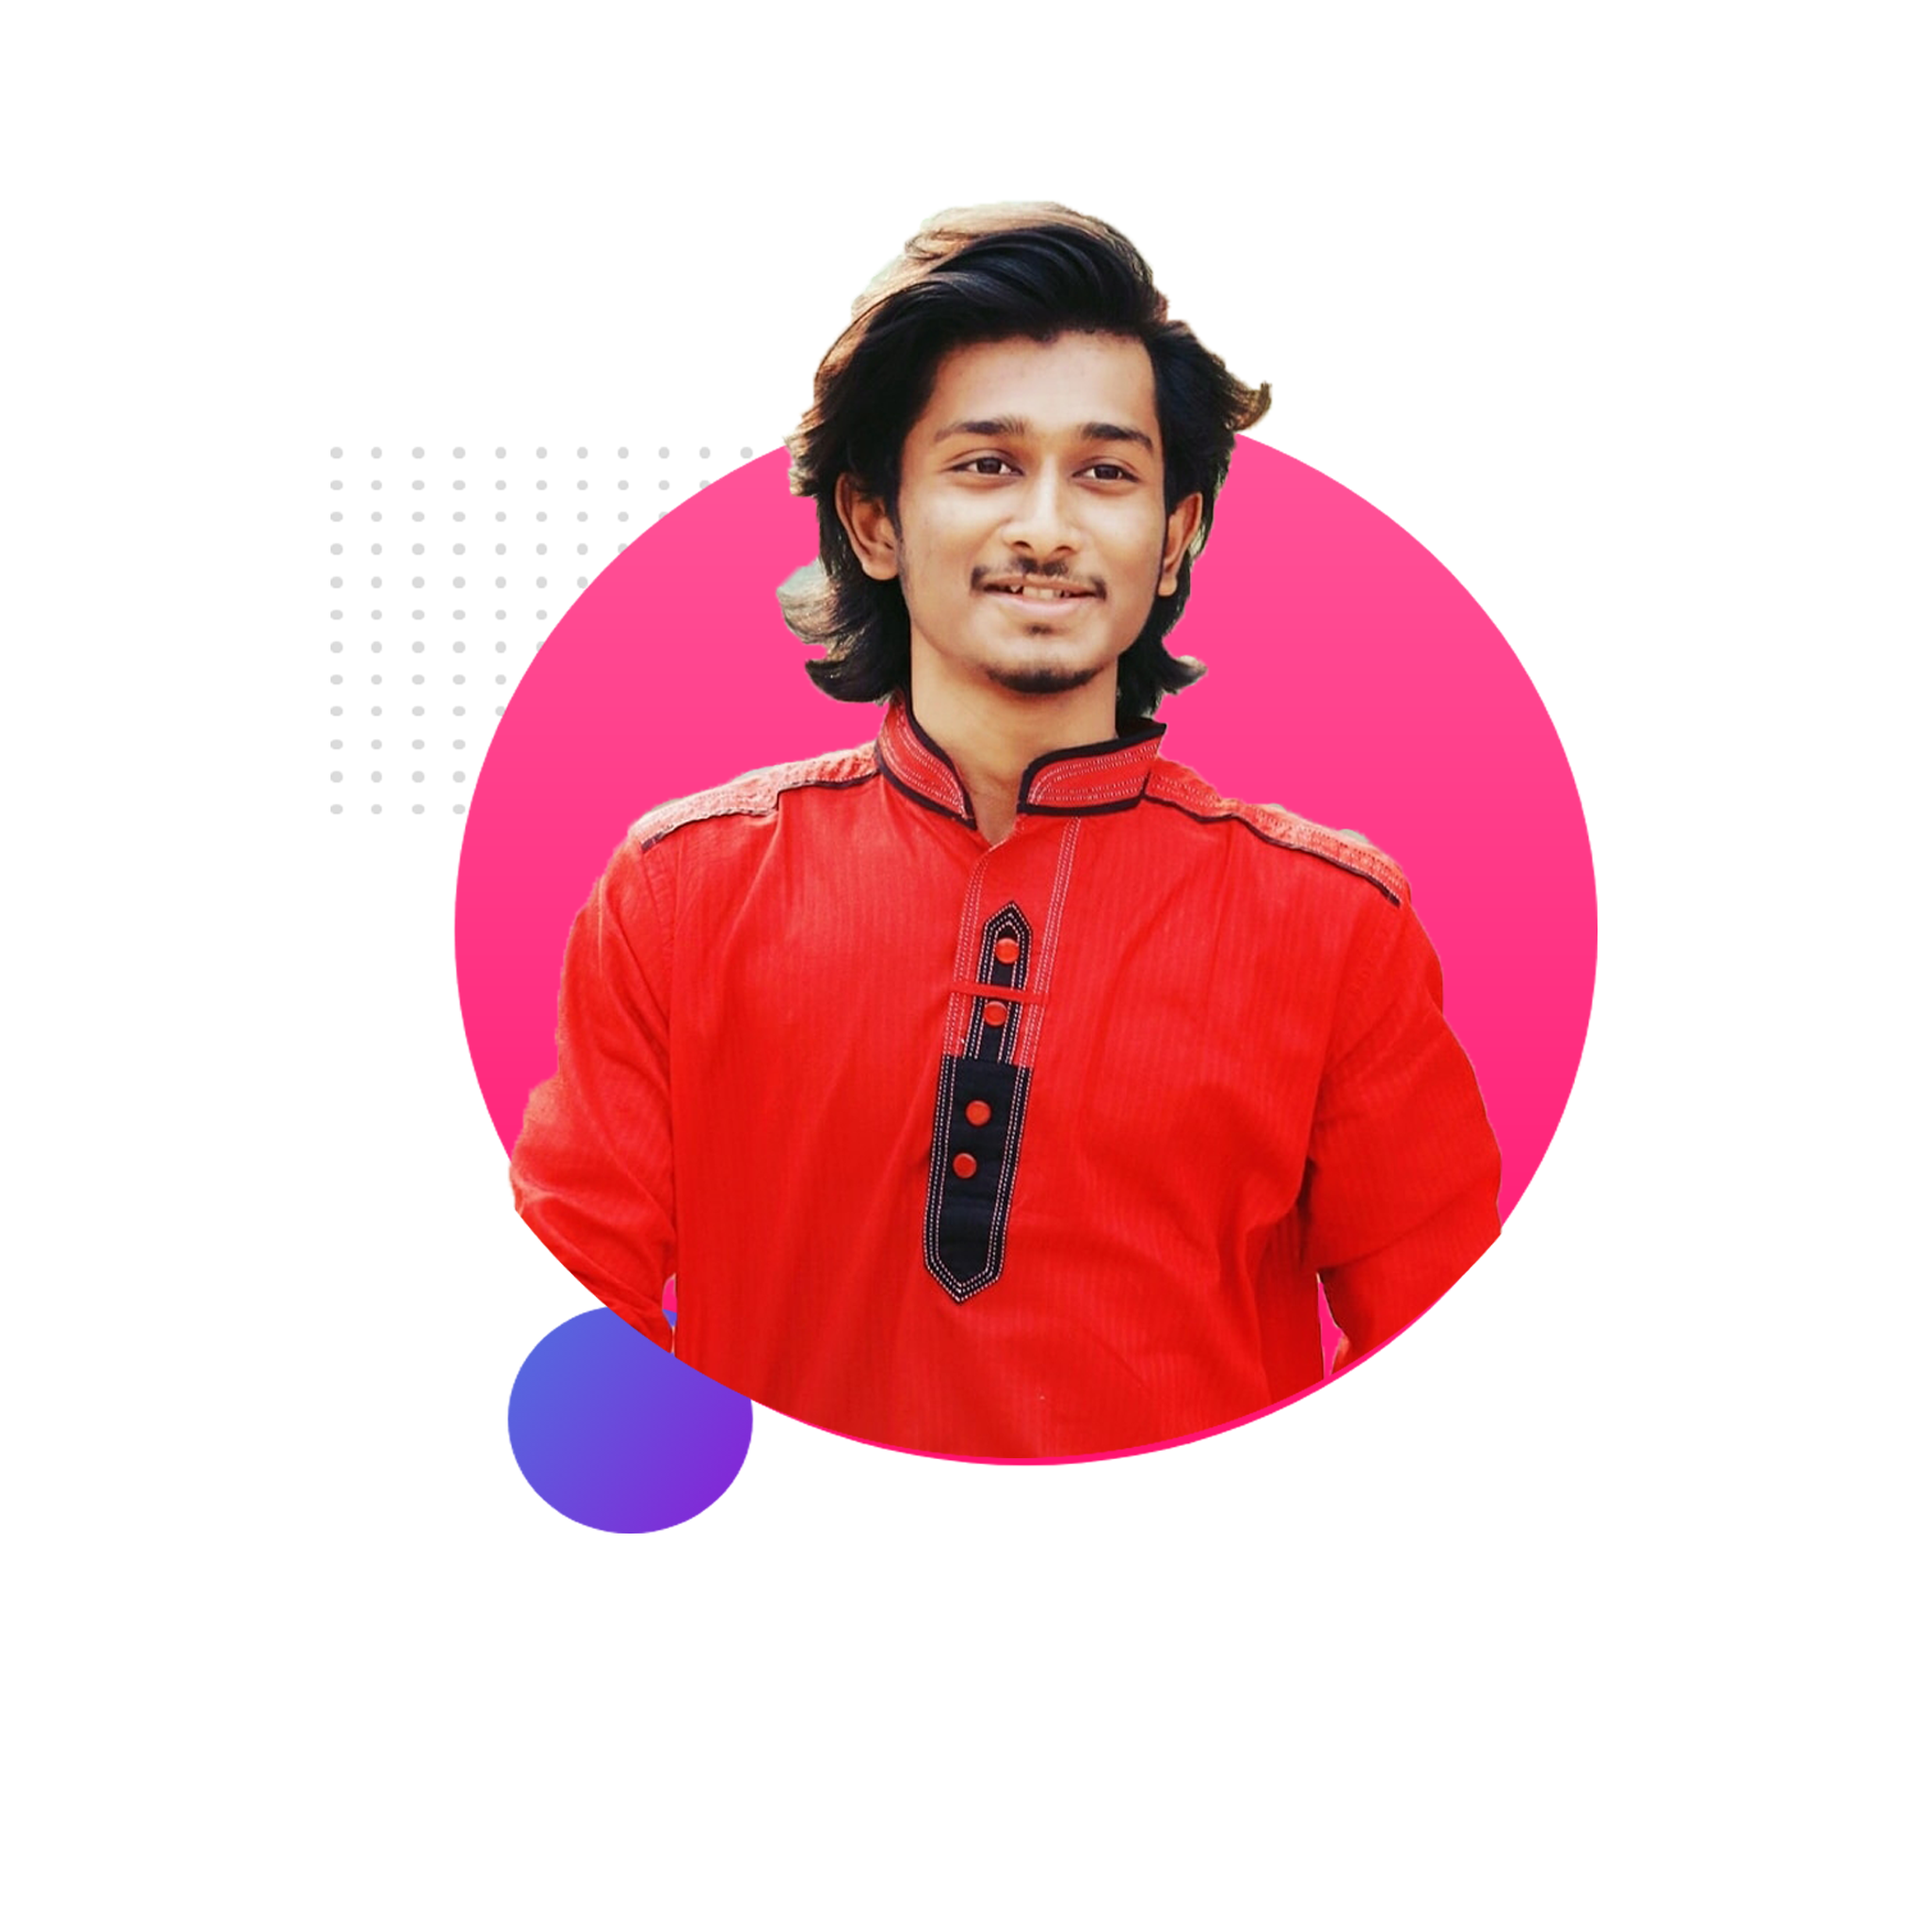
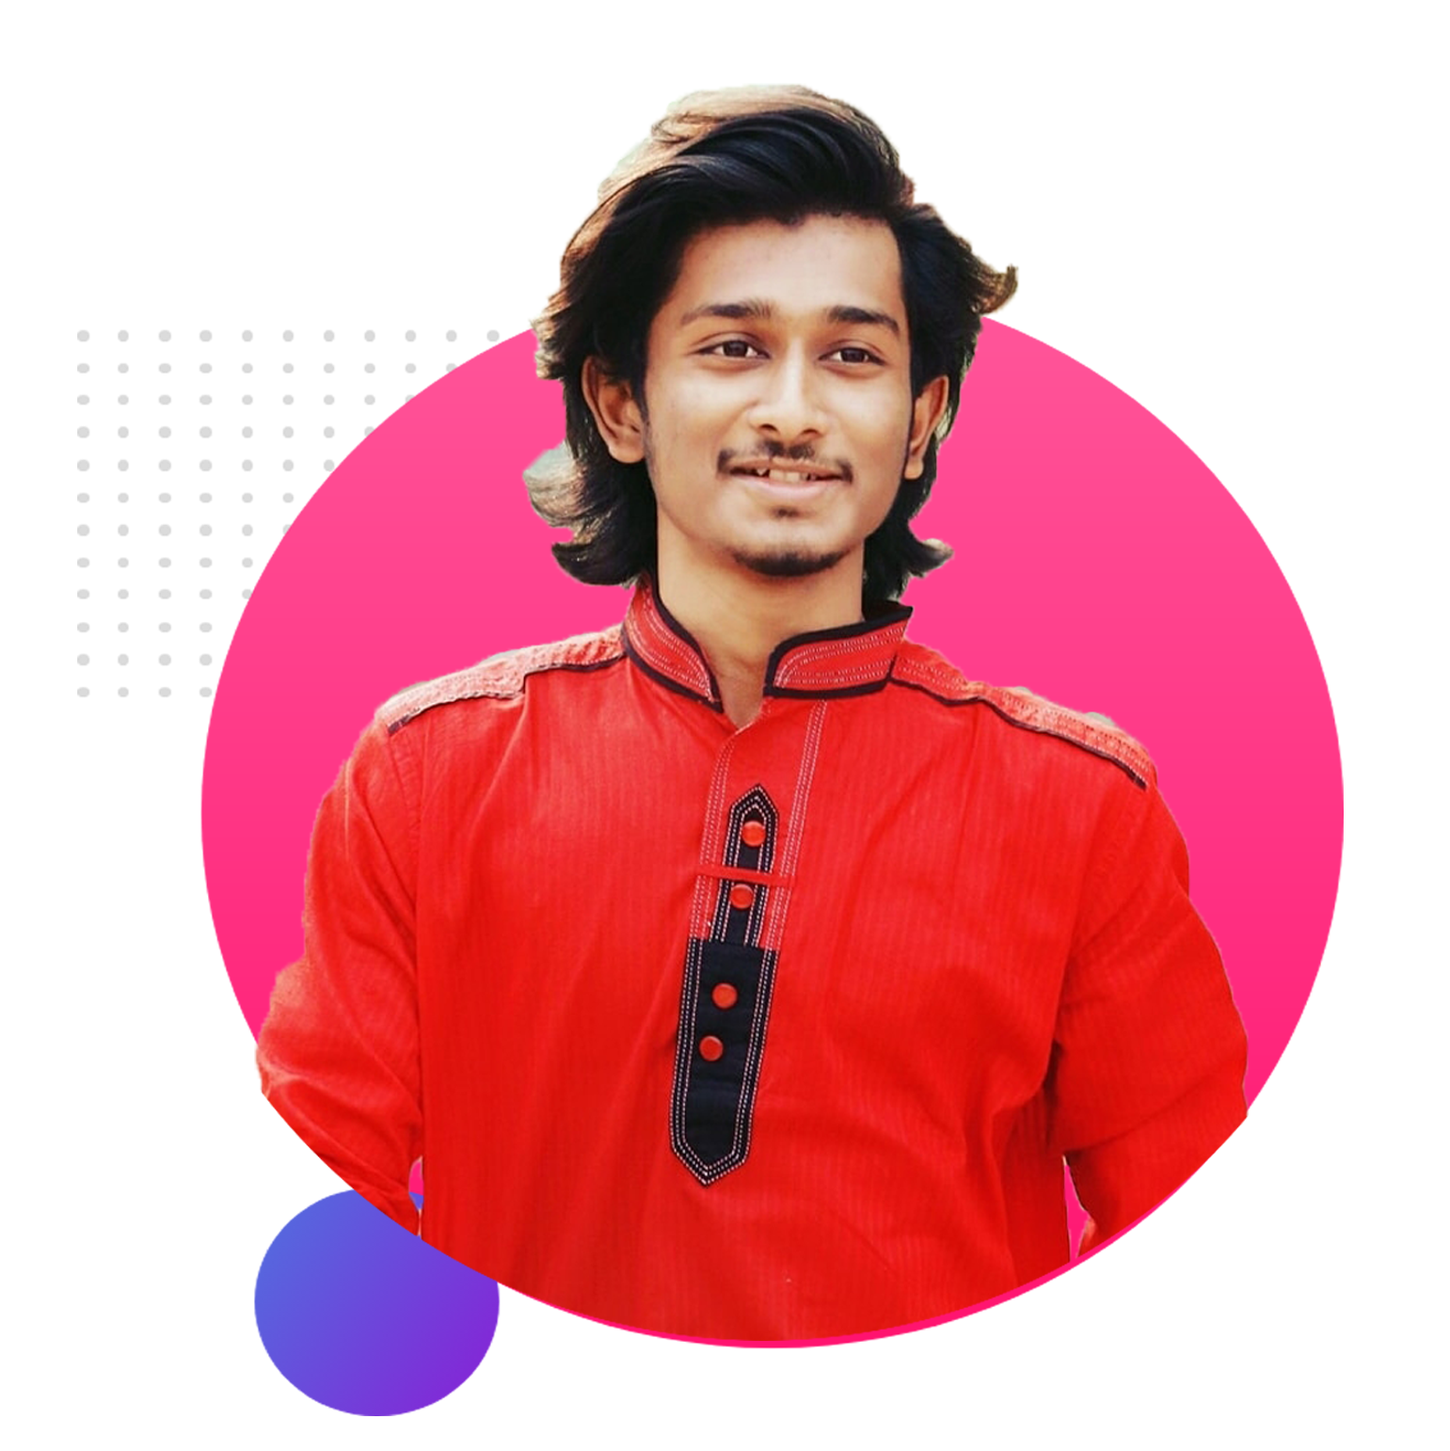
Second section added

diff --git a/index.html b/index.html
@@ -15,10 +15,11 @@
         <div class="half-width">
             <h1>Welcome to</h1>
             <h1><span class="name-highlight">Abdullah's</span> Website</h1>
-            <p>Hi everyone i am <span class="name-highlight">Abdullah Ibne Ali</span>. I am a CSE graduate from North South Unuiversity. I am intrested in web developing. I love to make websites and add life to them. Currently learning ReactJs.</p>
+            <h3>Proffesional Web Designer</h3>
+            <p>
+                Hi everyone i am <span class="name-highlight">Abdullah Ibne Ali</span>. I am a CSE graduate from North South Unuiversity. I am intrested in web developing. I love to make websites and add life to them. Currently learning ReactJs.</p>
             <p>
                 My goal is to fullfill my clients requests and make beautiful websites for them. I can make fully functional front-end designs and make them interactive.
-
             </p>
             <a class="button purple" target="_blank" href="https://www.linkedin.com/in/abdullah-ibne-ali">HIRE ME</a>
         </div>
@@ -26,6 +27,19 @@
             <img src="images/abd2.png" alt="Photo of owner">
         </div>
     </section>
-    
+
+
+    <!----------------------------  SECOND SECTION  ------------------------------------->
+    <section class="dream-area">
+        <div class="half-width">
+            <img src="images/abd3-circle-ylw.png" alt="Photo of owner">
+        </div>
+        <div class="half-width">
+            <h2>Dream Big</h1>
+            <h3>Become a Web Developer</h3>
+            <p>I already learned the basic HTML and CSS. I can build any simple website. I can even teach my grandma haw to make simple website. My goal is to build 3 websites and learn advanced topics.</p>
+            <a class="button orange" target="_blank" href="https://drive.google.com/file/d/1zAB1IvV8a02VKtm0wDqJFFCvGo5NiAW9/view?usp=sharing">Download RESUME</a>
+        </div>
+    </section>
 </body>
 </html>

diff --git a/style.css b/style.css
@@ -8,12 +8,18 @@ body{
 h1{
     font-size: 2em;
 }
-
+h2{
+    font-size: 1.7em;
+}
+p{
+    color: dimgrey;
+}
 .half-width{
     width: 40%;
     float: left;
     margin-left: 5%;
     padding-left: 2%;
+    position: inherit;
 }
 .half-width img{
     width: 100%;
@@ -25,21 +31,37 @@ h1{
     background-color: blueviolet;
     background-image: linear-gradient(45deg, rgb(152, 61, 236), rgb(68, 8, 124));
 }
-.button{
-    padding: 8px 30px;
-    text-decoration: none;
-    border-radius: 5%;
-    border-color: blueviolet;
+.orange{
+    color: white;
+    background-color: orange;
+    background-image: linear-gradient(45deg, rgb(255, 142, 98), tomato);
+}
+button{
     font-family: 'Poppins', sans-serif;
 }
-.button:hover{
-    background-image: linear-gradient(90deg, rgb(152, 61, 236), rgb(68, 8, 124));
-    font-size: 1.1em;
+.button{
+    margin-top: 30px;
+    padding: 8px 30px;
+    text-decoration: none;
+    border-radius: 5px;
+    border-color: blueviolet;
+}
+.purple:hover{
+    background-image: linear-gradient(90deg, rgb(47, 5, 87), rgb(68, 8, 124)); 
+}
+.orange:hover{
+    background-image: linear-gradient(90deg, rgb(241, 86, 24), tomato);
 }
 .top-banner{
     background-repeat: no-repeat;
     background-image: url(images/top-banner.png);
 }
 section{
-    height: 600px;
+    height: 500px;
+    padding-bottom: 150px;
+}
+.dream-area{
+    background-image: url(images/dream-bg.png);
+    background-repeat: no-repeat;
+    background-position: right;
 }
